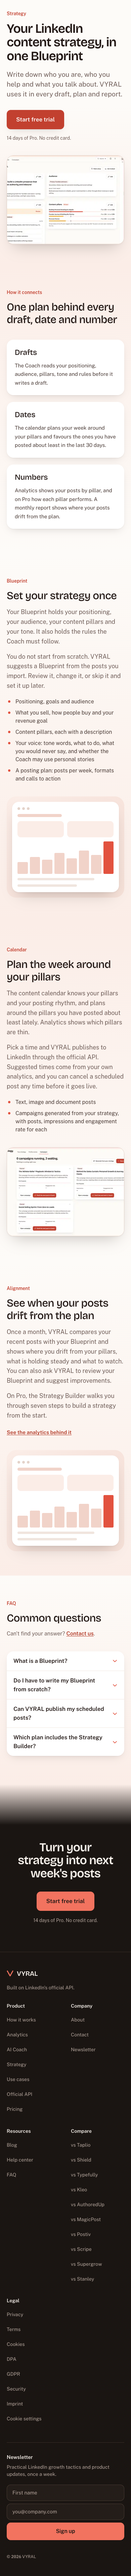
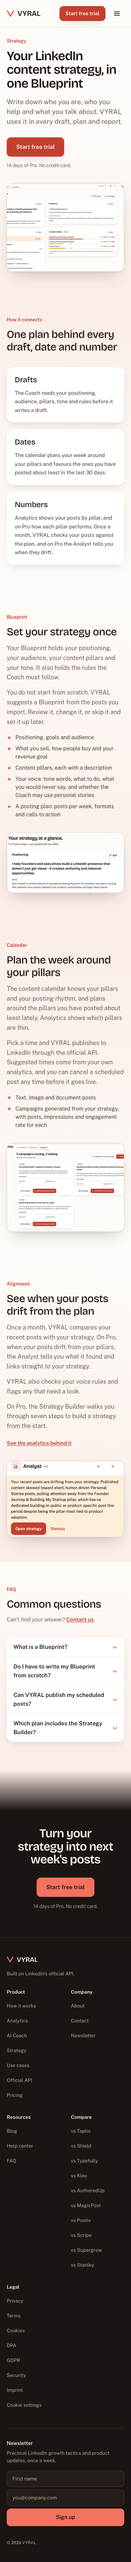
Real screens replace the last drawn illustrations (#13)

diff --git a/src/components/site/FeaturePage.tsx b/src/components/site/FeaturePage.tsx
@@ -16,7 +16,6 @@ import Section from "./Section";
 import SectionHeading from "./SectionHeading";
 import SectionLabel from "./SectionLabel";
 import AppScreen, { type ScreenName } from "./AppScreen";
-import ScreenIllustration from "./ScreenIllustration";
 
 export type FeatureSection = {
   label: string;
@@ -24,8 +23,8 @@ export type FeatureSection = {
   body: string[];
   points?: string[];
   link?: { label: string; href: string };
-  /** A real app screen in place of the drawn illustration. */
-  screen?: ScreenName;
+  /** A real app screen beside the text. */
+  screen: ScreenName;
 };
 
 export type CompareBlock = {
@@ -42,8 +41,8 @@ export type ConnectBlock = {
 };
 
 export type FeaturePageContent = {
-  /** A real app screen for the hero, in place of the drawn illustration. */
-  heroScreen?: ScreenName;
+  /** A real app screen for the hero. */
+  heroScreen: ScreenName;
   /** Desktop crop for the hero screen: width / height and object-position. */
   heroCrop?: { ratio: number; position: string };
   /** Optional band of short points right after the hero. */
@@ -97,11 +96,7 @@ export default function FeaturePage({ content }: { content: FeaturePageContent }
         title={content.h1}
         sub={content.sub}
         aside={
-          content.heroScreen ? (
-            <AppScreen name={content.heroScreen} priority ratio={content.heroCrop?.ratio} position={content.heroCrop?.position} />
-          ) : (
-            <ScreenIllustration />
-          )
+          <AppScreen name={content.heroScreen} priority ratio={content.heroCrop?.ratio} position={content.heroCrop?.position} />
         }
       >
         <Button href={APP_SIGNUP_URL} size="lg">
@@ -174,7 +169,7 @@ export default function FeaturePage({ content }: { content: FeaturePageContent }
                   </p>
                 )}
               </div>
-              {s.screen ? <AppScreen name={s.screen} /> : <ScreenIllustration />}
+              <AppScreen name={s.screen} />
             </div>
           </Section>
         );

diff --git a/src/app/(site)/linkedin-content-strategy/page.tsx b/src/app/(site)/linkedin-content-strategy/page.tsx
@@ -29,7 +29,7 @@ const content: FeaturePageContent = {
       },
       {
         title: "Numbers",
-        body: "Analytics shows your posts by pillar, and on Pro how each pillar performs. A monthly report shows where your posts drift from the plan.",
+        body: "Analytics shows your posts by pillar, and on Pro how each pillar performs. Once a month, VYRAL checks your posts against the plan, and on Pro the Analyst tells you when they drift.",
       },
     ],
   },
@@ -48,6 +48,7 @@ const content: FeaturePageContent = {
         "Your voice: tone words, what to do, what you would never say, and whether the Coach may use personal stories",
         "A posting plan: posts per week, formats and calls to action",
       ],
+      screen: "strategy-positioning",
     },
     {
       label: "Calendar",
@@ -63,10 +64,12 @@ const content: FeaturePageContent = {
       label: "Alignment",
       title: "See when your posts drift from the plan",
       body: [
-        "Once a month, VYRAL compares your recent posts with your Blueprint and shows where you drift from your pillars, what is holding steady and what to watch. You can also ask VYRAL to review your Blueprint and suggest improvements.",
+        `Once a month, VYRAL compares your recent posts with your strategy. On ${pro.name}, when your posts drift from your pillars, the Analyst tells you what it found and links straight to your strategy.`,
+        "VYRAL also checks your voice rules and flags any that need a look.",
         `On ${pro.name}, the Strategy Builder walks you through seven steps to build a strategy from the start.`,
       ],
       link: { label: "See the analytics behind it", href: "/linkedin-analytics" },
+      screen: "strategy-alignment-analyst",
     },
   ],
   faq: [

diff --git a/src/components/site/AppScreen.tsx b/src/components/site/AppScreen.tsx
@@ -79,16 +79,28 @@ const SCREENS = {
     alt: "VYRAL draft score of 84 with scores for opening line, clarity, flow, tone, call to action and fit with your strategy",
   },
   "coach-ideas-try-next": {
-    w: 1610,
-    h: 494,
+    w: 524,
+    h: 496,
     natural: true,
-    alt: "VYRAL suggestions for what to post next, each with a button to draft it in the Coach",
+    alt: "A VYRAL suggestion for what to post next, with a button to draft it in the Coach",
   },
   "coach-write-publish": {
     w: 1980,
     h: 1120,
     natural: true,
     alt: "VYRAL Coach chat next to a draft, with the Publish button",
+  },
+  "strategy-positioning": {
+    w: 982,
+    h: 500,
+    natural: true,
+    alt: "VYRAL strategy page with your positioning and goal",
+  },
+  "strategy-alignment-analyst": {
+    w: 564,
+    h: 364,
+    natural: true,
+    alt: "VYRAL Analyst warning that recent posts are drifting from your strategy",
   },
 } satisfies Record<string, Screen>;
 

diff --git a/src/app/(site)/solutions/page.tsx b/src/app/(site)/solutions/page.tsx
@@ -4,7 +4,6 @@ import { Bullets } from "@/components/site/FeaturePage";
 import JsonLd from "@/components/site/JsonLd";
 import PageHero from "@/components/site/PageHero";
 import AppScreen from "@/components/site/AppScreen";
-import ScreenIllustration from "@/components/site/ScreenIllustration";
 import Section from "@/components/site/Section";
 import SectionHeading from "@/components/site/SectionHeading";
 import SectionLabel from "@/components/site/SectionLabel";
@@ -88,7 +87,7 @@ export default function SolutionsPage() {
         label="Use cases"
         title="VYRAL for creators, ghostwriters, agencies and businesses"
         sub="Same product, different jobs. Find the part that fits how you work."
-        aside={<ScreenIllustration />}
+        aside={<AppScreen name="posts-list" priority />}
       >
         <nav aria-label="Use cases" className="flex flex-wrap gap-3">
           {AUDIENCES.map((a) => (
